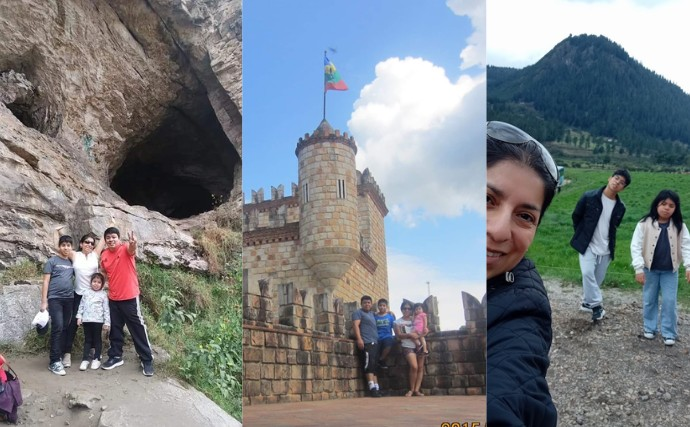
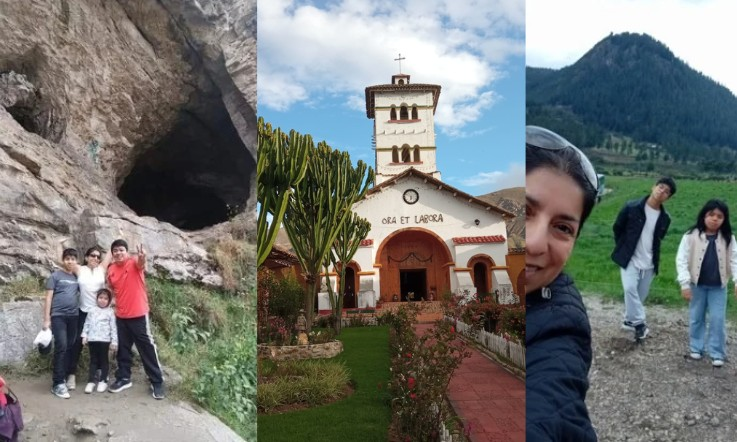
fix(ui): reubicar imagen5 en lateral izquierdo sin solapamiento y subir nueva imagen3 de Cajamarca

diff --git a/src/components/CelebrationModal.jsx b/src/components/CelebrationModal.jsx
@@ -22,7 +22,7 @@ const FOTOS_GRAN_PUERTA = [
     url: granPuertaAsset('imagen1.jpg'),
     titulo: 'Recuerdos inolvidables ✨',
     rotacion: -6,
-    desktopPos: 'left-3 top-10 xl:left-8 xl:top-14',
+    desktopPos: 'left-3 top-6 xl:left-8 xl:top-8',
     duracion: 3.2,
   },
   {
@@ -30,7 +30,7 @@ const FOTOS_GRAN_PUERTA = [
     url: granPuertaAsset('imagen2.jpg'),
     titulo: 'Momentos en familia ❤',
     rotacion: 7,
-    desktopPos: 'right-3 top-12 xl:right-8 xl:top-16',
+    desktopPos: 'right-3 top-6 xl:right-8 xl:top-8',
     duracion: 3.8,
   },
   {
@@ -38,7 +38,7 @@ const FOTOS_GRAN_PUERTA = [
     url: granPuertaAsset('imagen3.jpg'),
     titulo: 'Risas que alegran la casa 😊',
     rotacion: -5,
-    desktopPos: 'left-4 bottom-16 xl:left-10 xl:bottom-20',
+    desktopPos: 'left-4 bottom-6 xl:left-10 xl:bottom-8',
     duracion: 3.5,
   },
   {
@@ -46,15 +46,15 @@ const FOTOS_GRAN_PUERTA = [
     url: granPuertaAsset('imagen4.jpg'),
     titulo: 'Mamá hermosa y consentida 👑',
     rotacion: 6,
-    desktopPos: 'right-4 bottom-18 xl:right-10 xl:bottom-22',
+    desktopPos: 'right-4 bottom-6 xl:right-10 xl:bottom-8',
     duracion: 4.1,
   },
   {
     id: 5,
     url: granPuertaAsset('imagen5.jpg'),
     titulo: '45 años llenos de amor 🎂',
-    rotacion: 4,
-    desktopPos: 'right-3 top-1/2 -translate-y-1/2 xl:right-6',
+    rotacion: -4,
+    desktopPos: 'left-3 top-[40%] xl:left-8',
     duracion: 3.6,
   },
 ];
